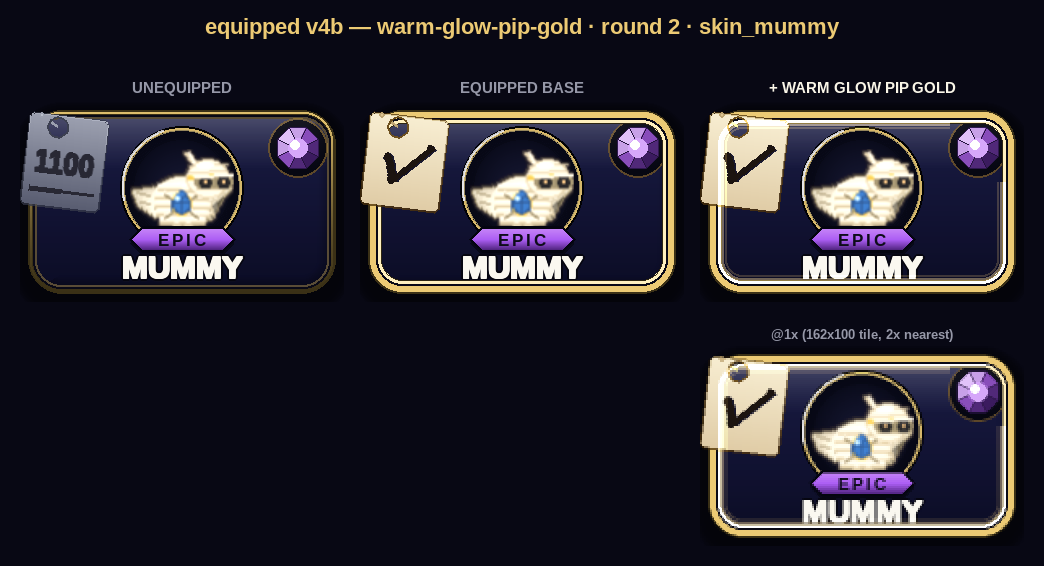
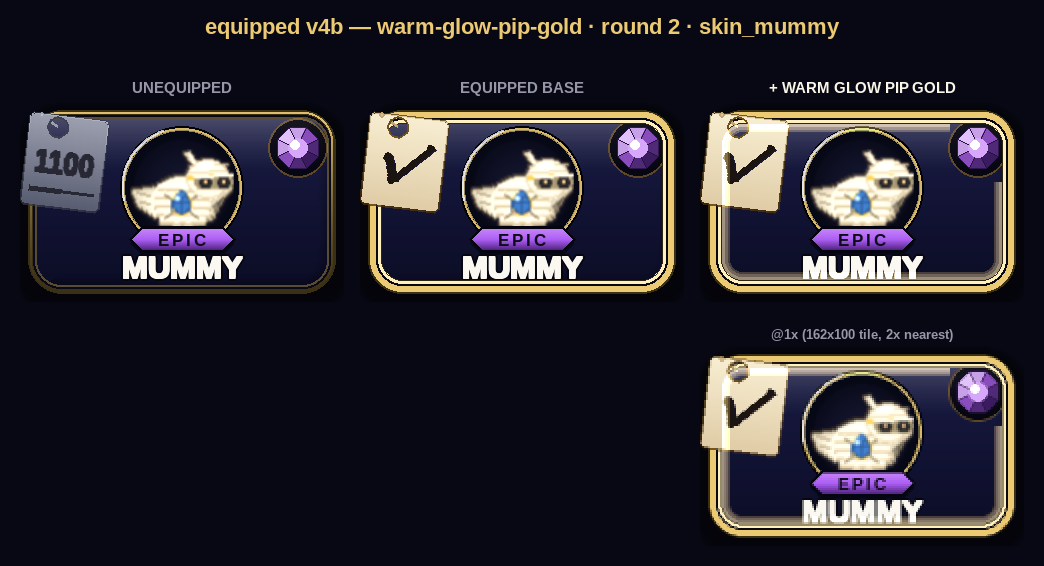
Update store_equipped_v4b warm-glow-pip-gold round 2

Changed region(s): [[0.6743, 0.6307, 0.9808, 0.9311], [0.6743, 0.2102, 0.9808, 0.5106]]

diff --git a/tools/_store_equipped_v4b_warm_glow_pip_gold_r2.py b/tools/_store_equipped_v4b_warm_glow_pip_gold_r2.py
@@ -28,14 +28,16 @@ def draw_warm_glow_pip_gold(surf, body):
     than a white blow-out of the cream inner bead."""
     rad = sc.m(sc.CARD_RAD)
 
-    # Concentric rect rings hugging the inner frame track only: outer edge at
-    # body.inflate(-20,-20), fading inward to inflate(-34,-34). Nothing reaches
-    # the body interior where the shelf-light already lives, and nothing spills
-    # toward the outer cream bead where an add would clip it to white.
+    # Concentric rect rings that sit just INBOARD of the cream keyline: the frame's
+    # cream inner bead lives at the ~y18-20 band, so the outermost stroke starts a
+    # few px further in (body.inflate(-28,-28)) and fades inward to inflate(-40,-40).
+    # This keeps the wash strictly in the inner frame track — never on the cream
+    # bead (an add there clips it to pure white) and never in the body interior
+    # where the tier shelf-light bar already glows.
     bloom = pygame.Surface(surf.get_size(), pygame.SRCALPHA)
-    for inset, w, col in ((20, 4, (248, 220, 140, 160)),
-                          (26, 3, (236, 202, 116, 110)),
-                          (34, 2, (220, 180,  80,  60))):
+    for inset, w, col in ((28, 4, (248, 220, 140, 150)),
+                          (34, 3, (236, 202, 116, 110)),
+                          (40, 2, (220, 180,  80,  70))):
         r = body.inflate(-inset, -inset)
         pygame.draw.rect(bloom, col, r, width=w,
                          border_radius=max(1, rad - inset // 2))
